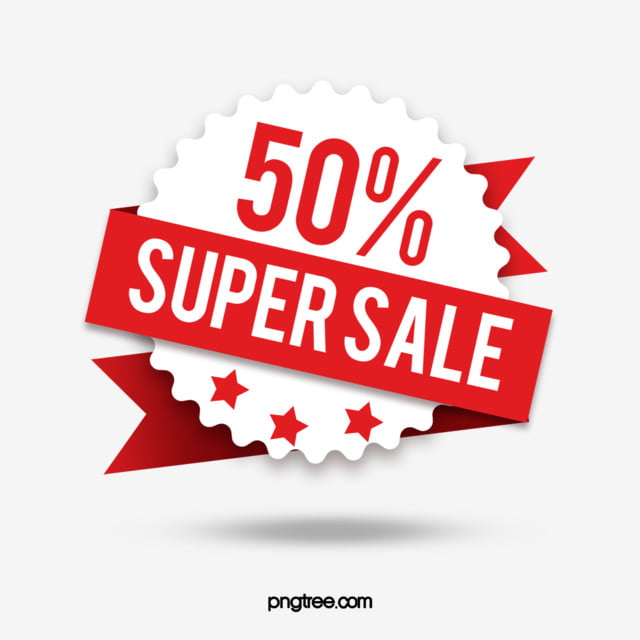
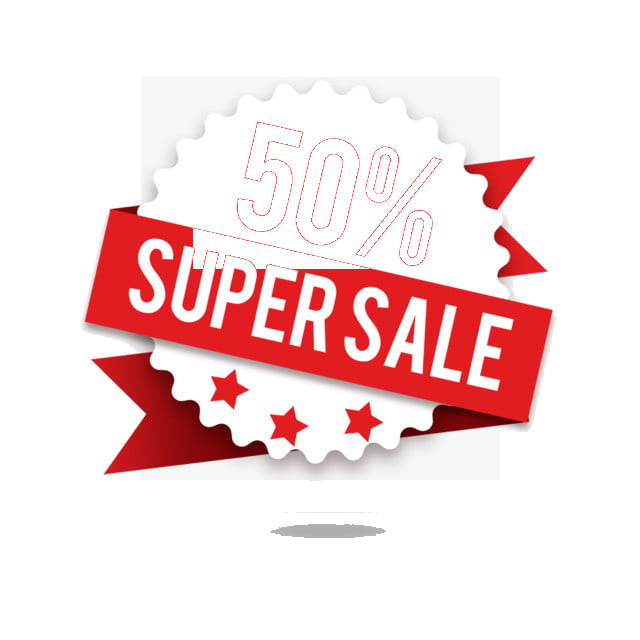
style: remove background of badges and redact 50% from sale badge to make it dynamic

diff --git a/process_images.js b/process_images.js
@@ -1,0 +1,83 @@
+const Jimp = require('jimp');
+const path = require('path');
+
+async function processImages() {
+  const brainDir = 'C:\\Users\\Admin\\.gemini\antigravity\\brain\\b727be59-5419-4a45-9412-7a620673d1d2';
+  const bestSellerSrc = path.join(brainDir, 'media__1780371058324.png');
+  const superSaleSrc = path.join(brainDir, 'media__1780371110422.png');
+  
+  const destBestSeller = 'c:\\Users\\Admin\\Desktop\\Chí\\AI\\Gối ôm\\assets\\badge-best-seller.png';
+  const destSuperSale = 'c:\\Users\\Admin\\Desktop\\Chí\\AI\\Gối ôm\\assets\\badge-super-sale.png';
+
+  console.log('Processing Best Seller Badge...');
+  const bestSeller = await Jimp.read(bestSellerSrc);
+  const bsW = bestSeller.bitmap.width;
+  const bsH = bestSeller.bitmap.height;
+
+  // Make white background transparent
+  bestSeller.scan(0, 0, bsW, bsH, function(x, y, idx) {
+    const r = this.bitmap.data[idx + 0];
+    const g = this.bitmap.data[idx + 1];
+    const b = this.bitmap.data[idx + 2];
+    
+    // If pixel is white or very close to white
+    if (r > 240 && g > 240 && b > 240) {
+      this.bitmap.data[idx + 3] = 0; // alpha = 0
+    }
+  });
+  await bestSeller.write(destBestSeller);
+  console.log('Saved transparent Best Seller to:', destBestSeller);
+
+  console.log('Processing Super Sale Badge...');
+  const superSale = await Jimp.read(superSaleSrc);
+  const ssW = superSale.bitmap.width;
+  const ssH = superSale.bitmap.height;
+
+  superSale.scan(0, 0, ssW, ssH, function(x, y, idx) {
+    const r = this.bitmap.data[idx + 0];
+    const g = this.bitmap.data[idx + 1];
+    const b = this.bitmap.data[idx + 2];
+
+    // 1. Remove background (light gray or white)
+    // The background color of pngtree image is around (240, 240, 240) to (255, 255, 255)
+    // The logo contains a shadow at the bottom, we can also clean up the very bottom shadow or keep it.
+    // Let's clear the outer background.
+    if (r > 235 && g > 235 && b > 235) {
+      // Don't clear the white circle in the middle!
+      // The white circle is roughly in the center: x from 20% to 80%, y from 10% to 75%
+      const isInsideWhiteCircle = (x > ssW * 0.22 && x < ssW * 0.78 && y > ssH * 0.12 && y < ssH * 0.75);
+      if (!isInsideWhiteCircle) {
+        this.bitmap.data[idx + 3] = 0; // Set background to transparent
+      }
+    }
+
+    // Also clear the bottom text logo 'pngtree.com'
+    if (y > ssH * 0.90) {
+      this.bitmap.data[idx + 3] = 0;
+    }
+    // Clear shadow area at the bottom completely to make it super clean
+    if (y > ssH * 0.80 && r > 180 && g > 180 && b > 180) {
+      this.bitmap.data[idx + 3] = 0;
+    }
+
+    // 2. Remove the red "50%" text in the upper white circle
+    // The "50%" text is in the upper part of the white circle: y between 15% and 42%, x between 30% and 70%
+    if (y > ssH * 0.15 && y < ssH * 0.42 && x > ssW * 0.30 && x < ssW * 0.70) {
+      // If it is red (red component high, green/blue low)
+      if (r > 130 && g < 80 && b < 80) {
+        this.bitmap.data[idx + 0] = 255;
+        this.bitmap.data[idx + 1] = 255;
+        this.bitmap.data[idx + 2] = 255;
+        this.bitmap.data[idx + 3] = 255;
+      }
+    }
+  });
+
+  await superSale.write(destSuperSale);
+  console.log('Saved cleaned Super Sale to:', destSuperSale);
+}
+
+processImages().catch(err => {
+  console.error(err);
+  process.exit(1);
+});

diff --git a/Gpaw - Cửa hàng.html b/Gpaw - Cửa hàng.html
@@ -1916,18 +1916,16 @@
   }
   .product-badge-container .discount-val {
     position: absolute;
-    top: 13px;
+    top: 14px;
     left: 36px;
     transform: translateX(-50%);
-    color: #df2029;
+    color: #de2226;
     font-family: "Outfit", var(--body), sans-serif;
-    font-size: 14px;
+    font-size: 15px;
     font-weight: 900;
-    background: #fff;
-    padding: 1px 3px;
-    border-radius: 3px;
     line-height: 1;
     text-align: center;
+    letter-spacing: -0.03em;
   }
 
   /* ───────────────────────── 6. Size Selector ──────────────────────────── */

diff --git a/Gpaw - Diva Sân Khấu (Ca sĩ).html b/Gpaw - Diva Sân Khấu (Ca sĩ).html
@@ -1916,18 +1916,16 @@
   }
   .product-badge-container .discount-val {
     position: absolute;
-    top: 13px;
+    top: 14px;
     left: 36px;
     transform: translateX(-50%);
-    color: #df2029;
+    color: #de2226;
     font-family: "Outfit", var(--body), sans-serif;
-    font-size: 14px;
+    font-size: 15px;
     font-weight: 900;
-    background: #fff;
-    padding: 1px 3px;
-    border-radius: 3px;
     line-height: 1;
     text-align: center;
+    letter-spacing: -0.03em;
   }
 
   /* ───────────────────────── 6. Size Selector ──────────────────────────── */

diff --git a/Gpaw - Gấu Mochi (Thú nhồi bông).html b/Gpaw - Gấu Mochi (Thú nhồi bông).html
@@ -1916,18 +1916,16 @@
   }
   .product-badge-container .discount-val {
     position: absolute;
-    top: 13px;
+    top: 14px;
     left: 36px;
     transform: translateX(-50%);
-    color: #df2029;
+    color: #de2226;
     font-family: "Outfit", var(--body), sans-serif;
-    font-size: 14px;
+    font-size: 15px;
     font-weight: 900;
-    background: #fff;
-    padding: 1px 3px;
-    border-radius: 3px;
     line-height: 1;
     text-align: center;
+    letter-spacing: -0.03em;
   }
 
   /* ───────────────────────── 6. Size Selector ──────────────────────────── */

diff --git a/Gpaw - Senpai School (Anime).html b/Gpaw - Senpai School (Anime).html
@@ -1916,18 +1916,16 @@
   }
   .product-badge-container .discount-val {
     position: absolute;
-    top: 13px;
+    top: 14px;
     left: 36px;
     transform: translateX(-50%);
-    color: #df2029;
+    color: #de2226;
     font-family: "Outfit", var(--body), sans-serif;
-    font-size: 14px;
+    font-size: 15px;
     font-weight: 900;
-    background: #fff;
-    padding: 1px 3px;
-    border-radius: 3px;
     line-height: 1;
     text-align: center;
+    letter-spacing: -0.03em;
   }
 
   /* ───────────────────────── 6. Size Selector ──────────────────────────── */

diff --git a/Gpaw — Gối ôm Donal Trump.html b/Gpaw — Gối ôm Donal Trump.html
@@ -1916,18 +1916,16 @@
   }
   .product-badge-container .discount-val {
     position: absolute;
-    top: 13px;
+    top: 14px;
     left: 36px;
     transform: translateX(-50%);
-    color: #df2029;
+    color: #de2226;
     font-family: "Outfit", var(--body), sans-serif;
-    font-size: 14px;
+    font-size: 15px;
     font-weight: 900;
-    background: #fff;
-    padding: 1px 3px;
-    border-radius: 3px;
     line-height: 1;
     text-align: center;
+    letter-spacing: -0.03em;
   }
 
   /* ───────────────────────── 6. Size Selector ──────────────────────────── */
